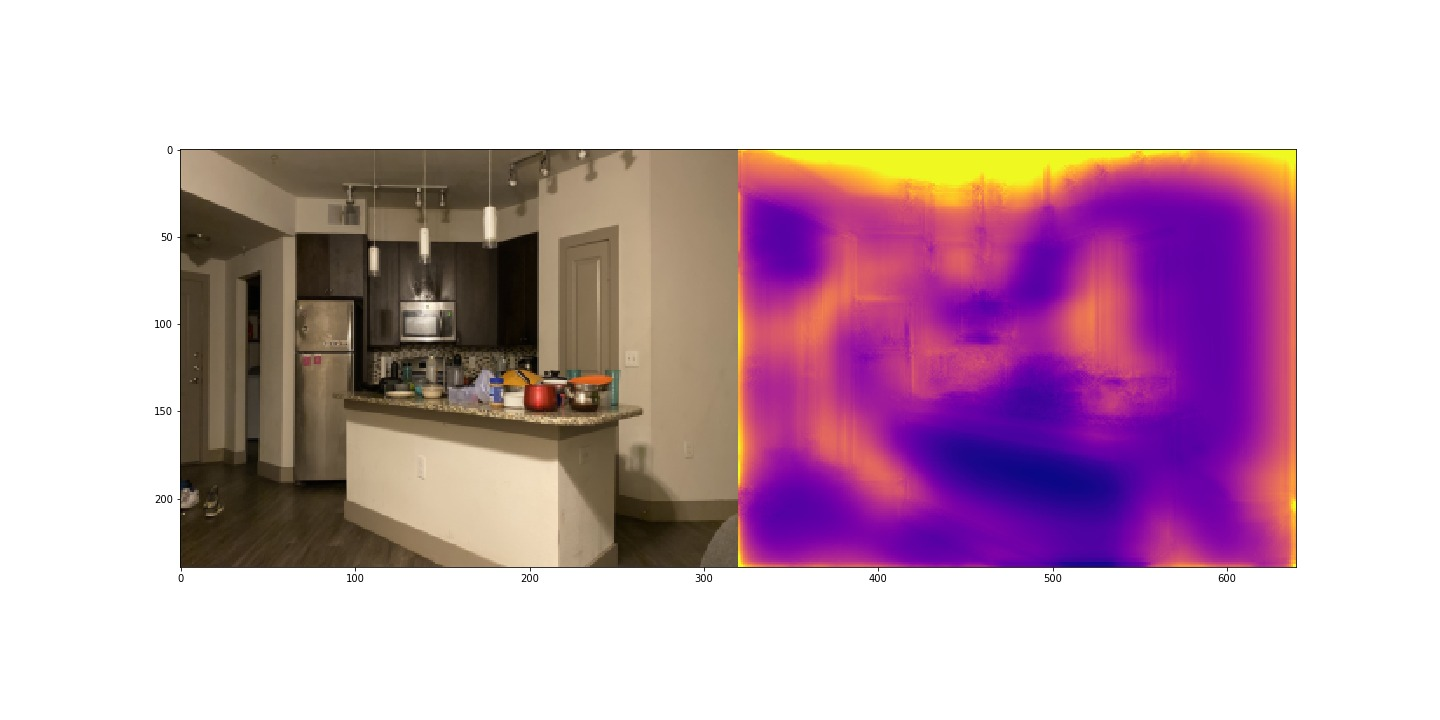
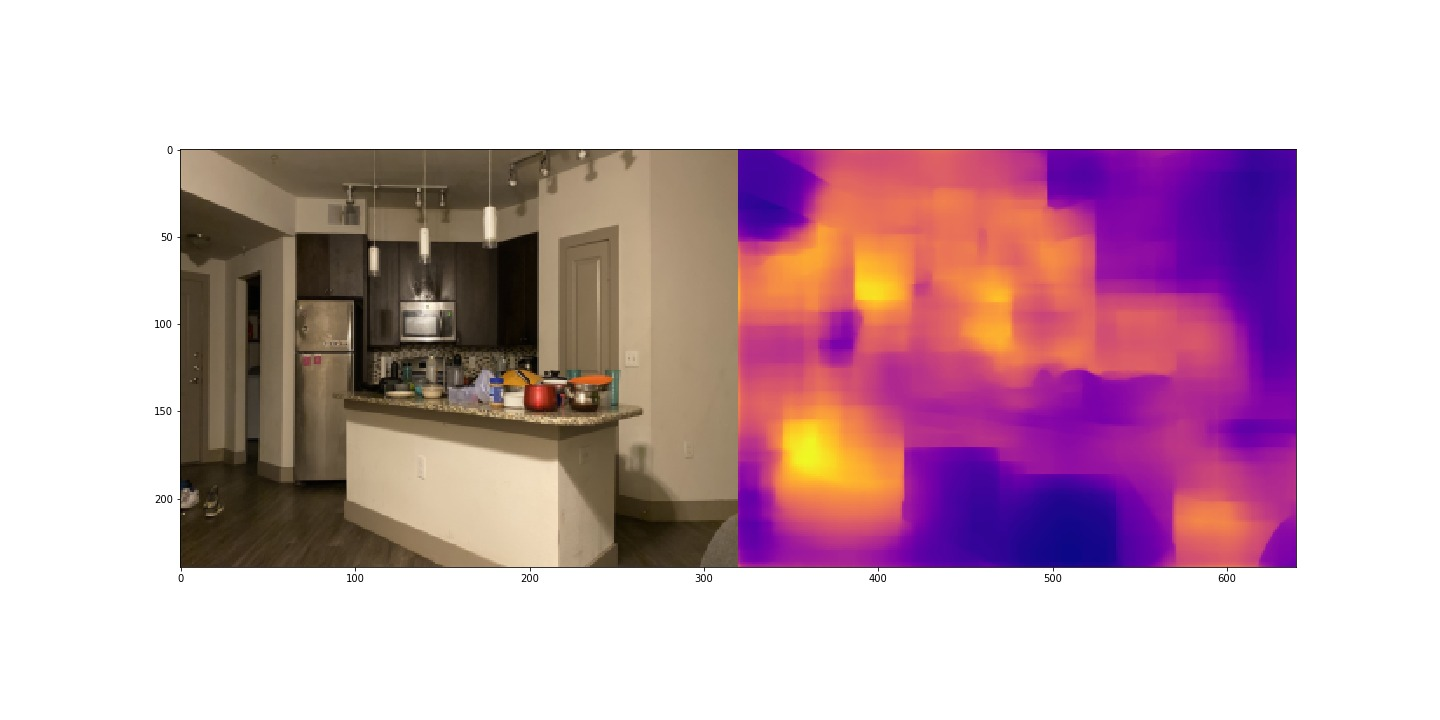
updated trained model and its image result

Changed region(s): [[0.5, 0.1833, 0.9062, 0.7944]]

diff --git a/README.md b/README.md
@@ -20,7 +20,7 @@ This version has been modified by me to
 * [NYU Depth V2](https://s3-eu-west-1.amazonaws.com/densedepth/nyu.h5) (165 MB)
 
 
-We Above paper used the pre-trained keras DenseNet201, DenseNet121, DenseNet169 and ResNet50 models, We used [unet](https://lmb.informatik.uni-freiburg.de/people/ronneber/u-net/) [Model](https://github.com/zhixuhao/unet) encodered and decoder model with the same optimizer and the loss function to replicate the result
+The Above paper used the pre-trained keras DenseNet201, DenseNet121, DenseNet169 and ResNet50 models, We used [unet](https://lmb.informatik.uni-freiburg.de/people/ronneber/u-net/) [Model](https://github.com/zhixuhao/unet) encoder and decoder model with the same optimizer and the loss function to replicate the result
 
 ## Training with UNet encoder
 * Train the model: 
@@ -39,6 +39,9 @@ python video_display.py model.h5
 
 # model.h5 is the created model
 ```
+
+## Download a pretrained model from our approach
+* [UNet trained model](https://drive.google.com/open?id=1WbVr3e7-kVDRtShCuaK-BtlzUePXYFWm) (477 MB)
 
 ## Result Comparison
 
